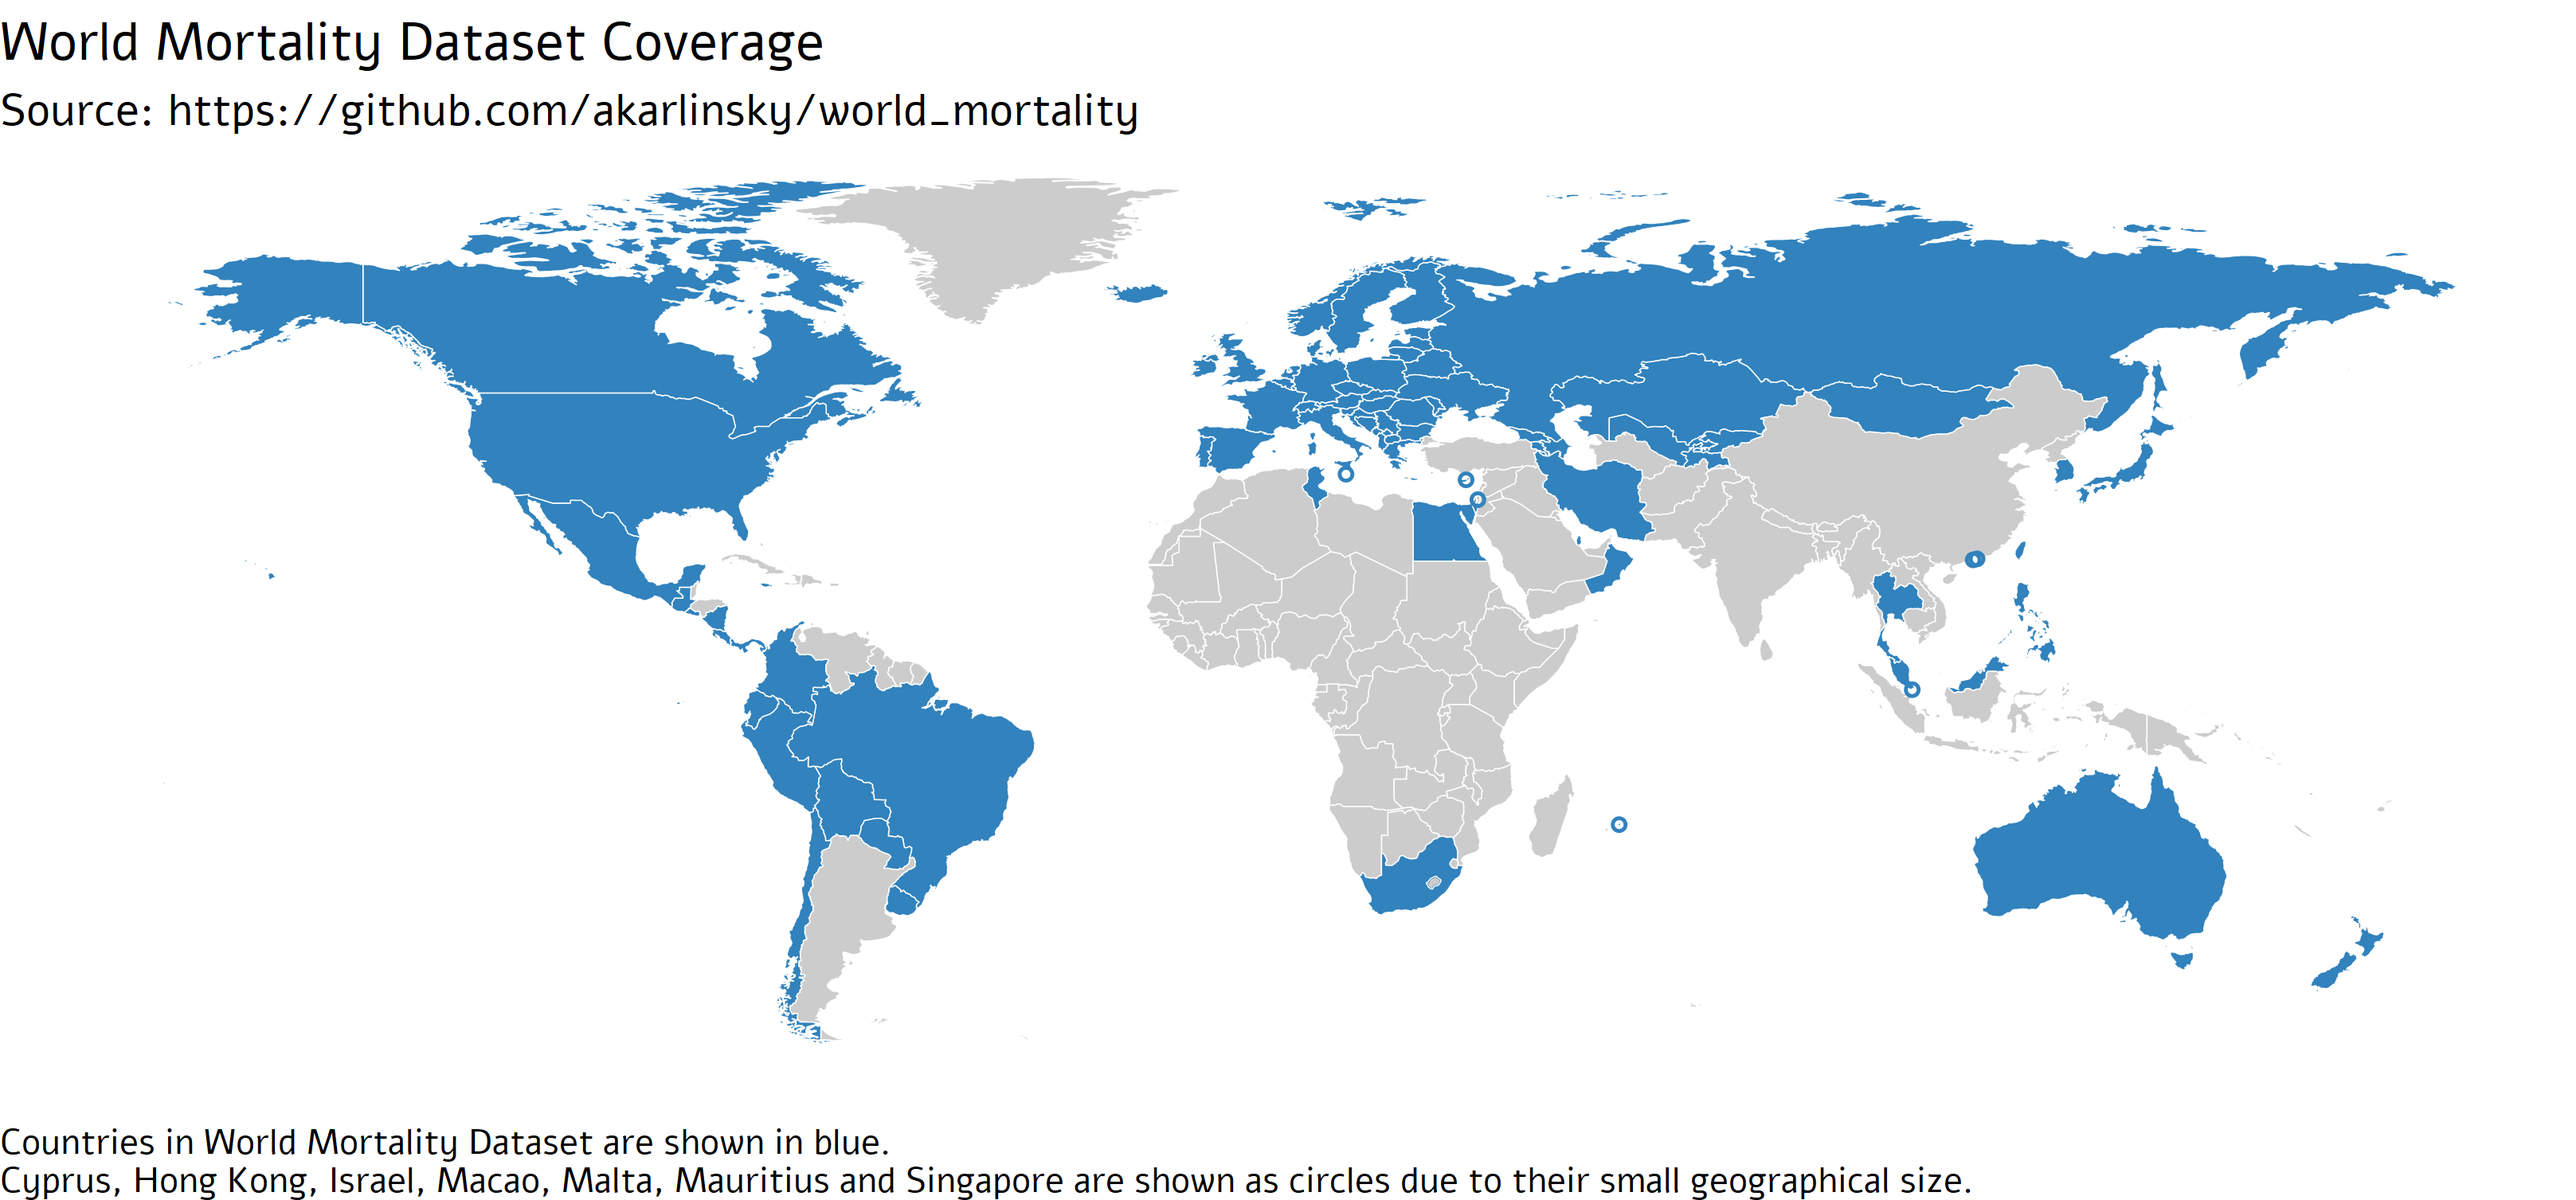
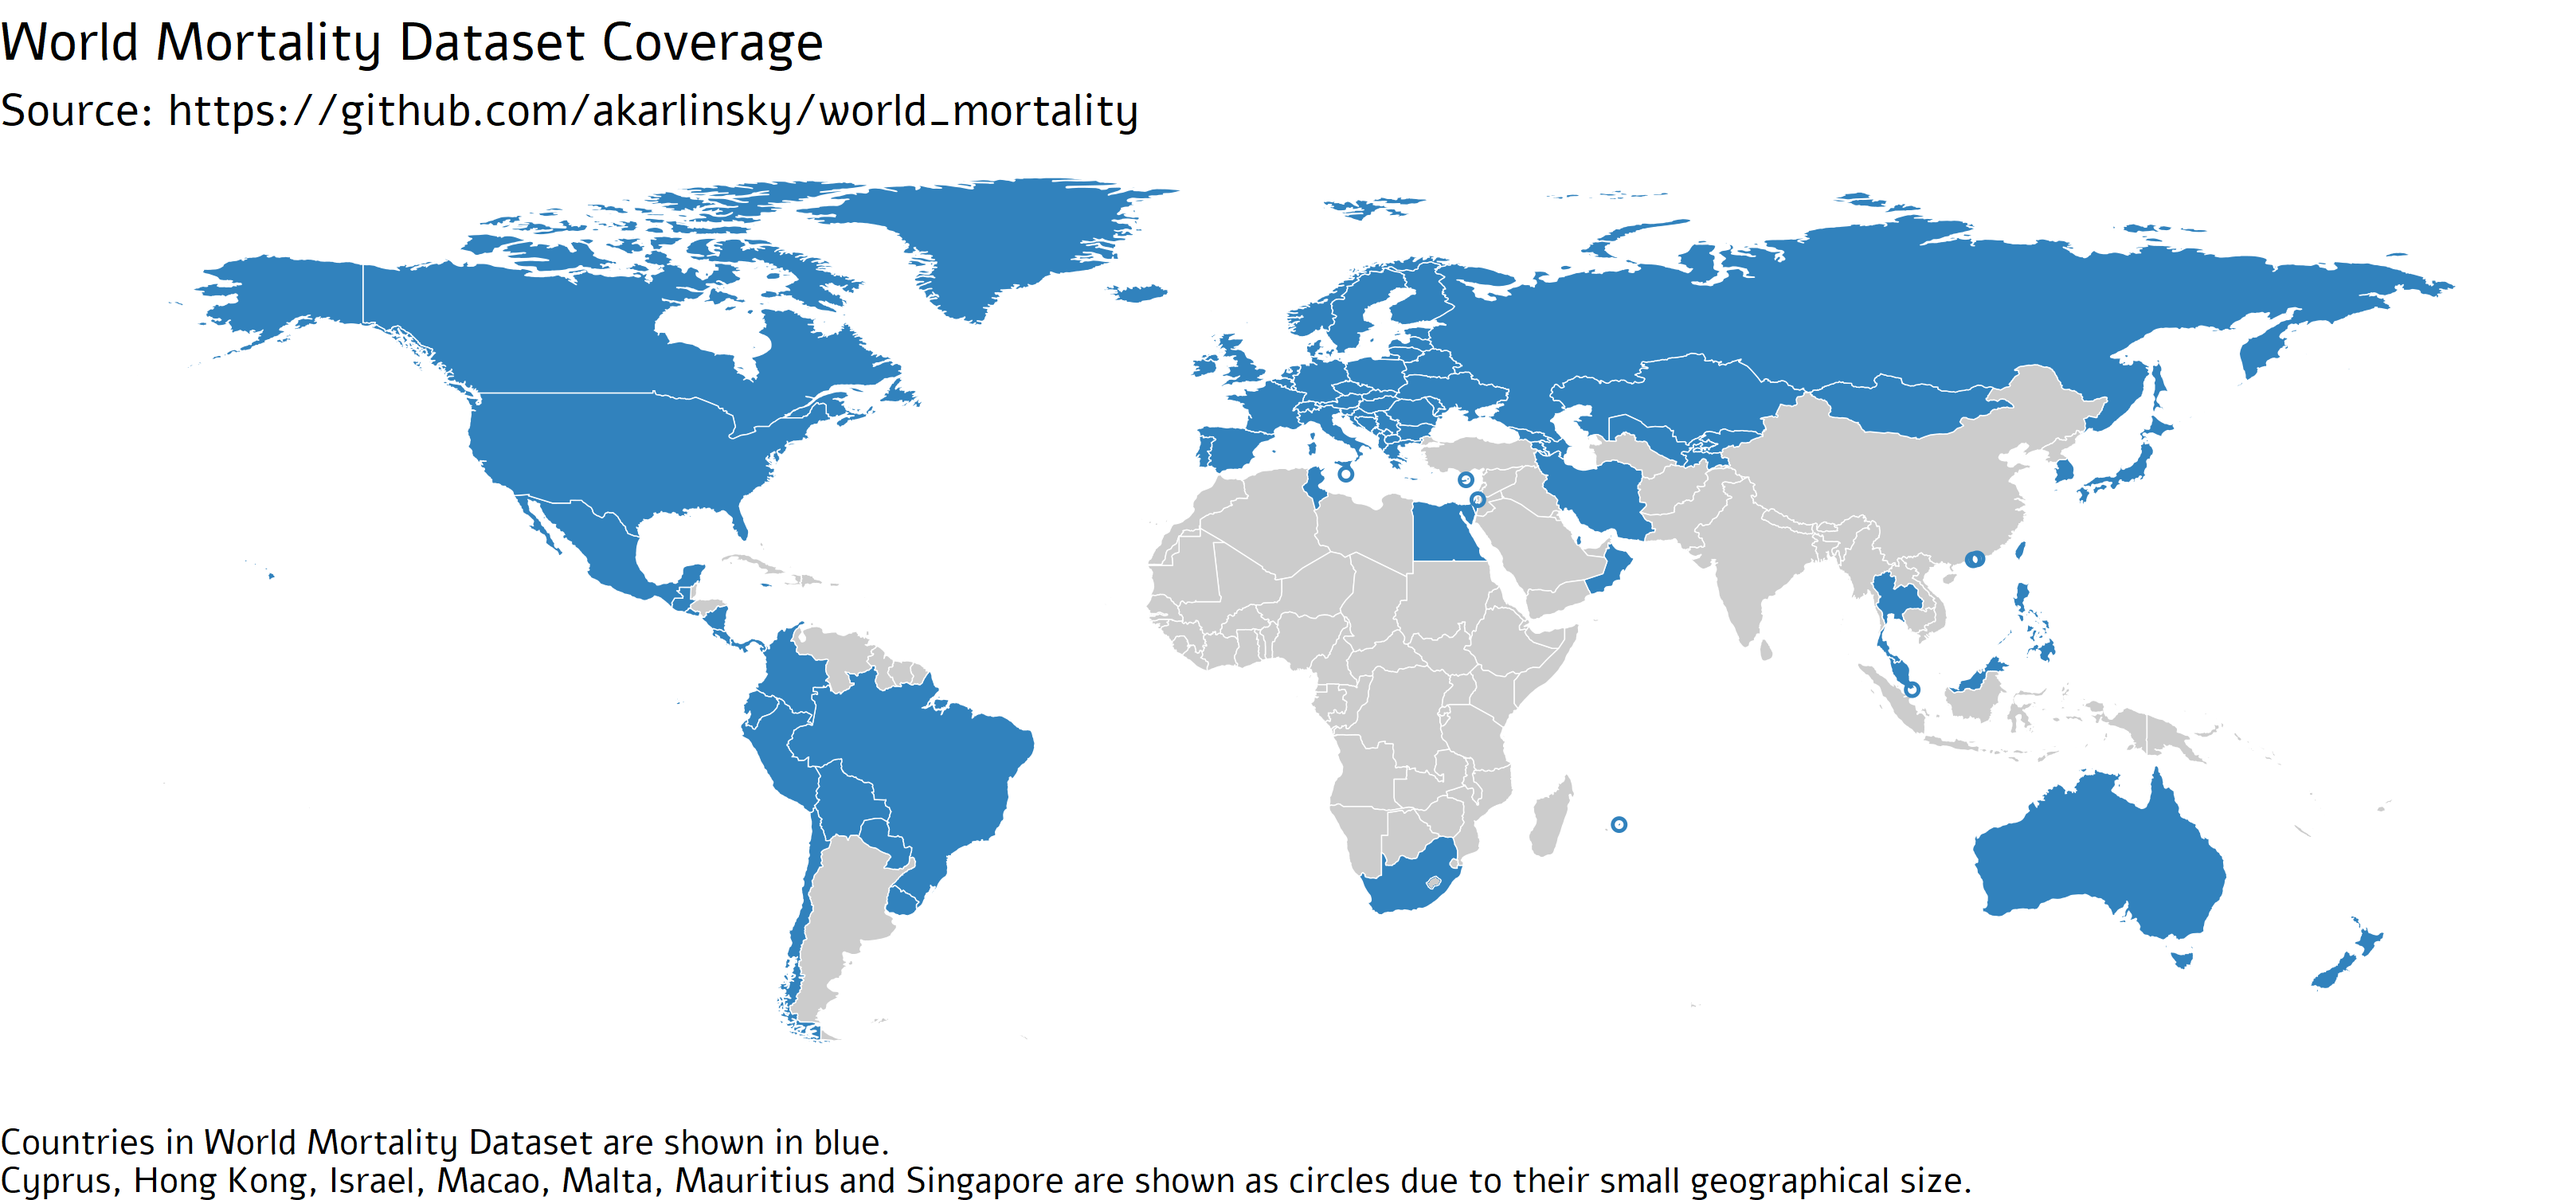
2021-04-06 Update
- New country: Greenland 2015 to 2020 monthly. See README.

- New data: Armenia, Ecuador, Peru, Qatar.

- Revisions: Ecuador, Peru, Sweden.

Changed region(s): [[0.3123, 0.1248, 0.4685, 0.2807]]

diff --git a/README.md b/README.md
@@ -146,9 +146,12 @@ Printed counts were taken as-is from the monthly plot. Other counts were digitiz
 
 
 ### Georgia (monthly)
-2015-2020: Georgia National Office of Statistics (GEOSTAT) https://www.geostat.ge/en/modules/categories/320/deaths  
+2015-2020: Georgia National Office of Statistics (GEOSTAT): https://www.geostat.ge/en/modules/categories/320/deaths  
 
 Access by: Number of Deaths Per Month -> Download XLS file.
+
+### Greenland (monthly)
+2015-2020: Statistics Greenland StatBank Deaths (monthly): https://bank.stat.gl/pxweb/en/Greenland/Greenland__BE__BE10__BE20/BEXBBDMD1.PX/
 
 
 ### Guatemala (weekly)
